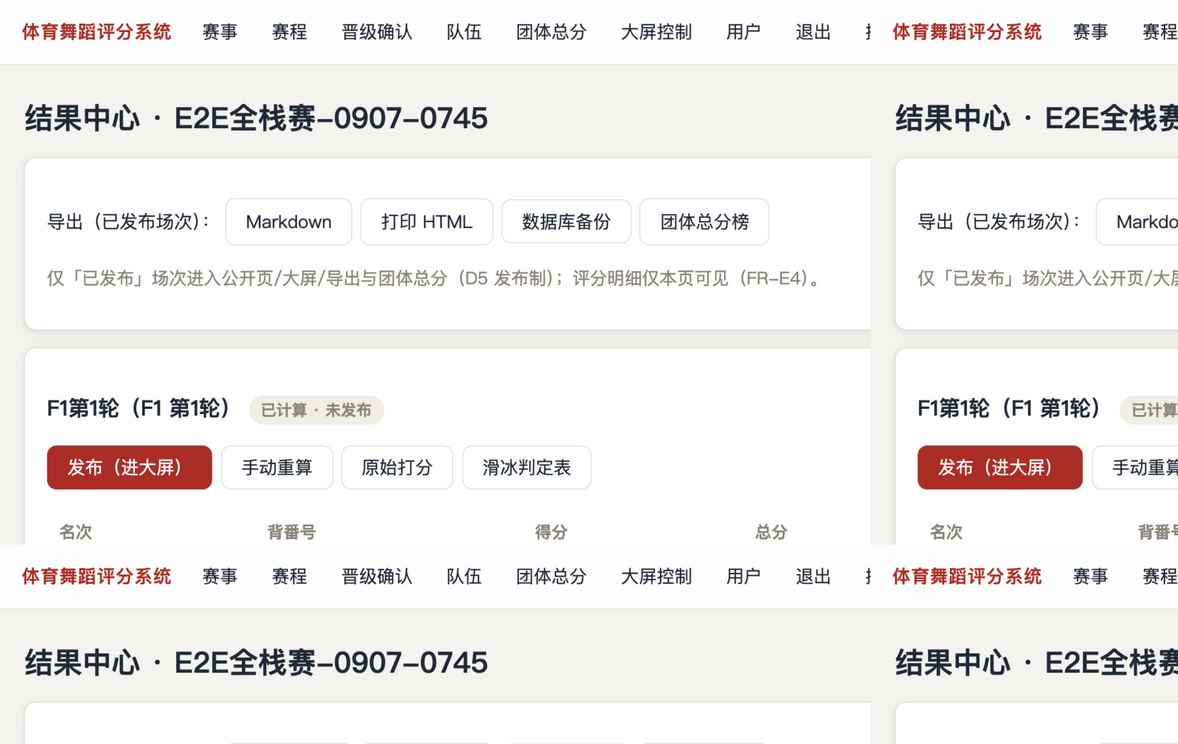
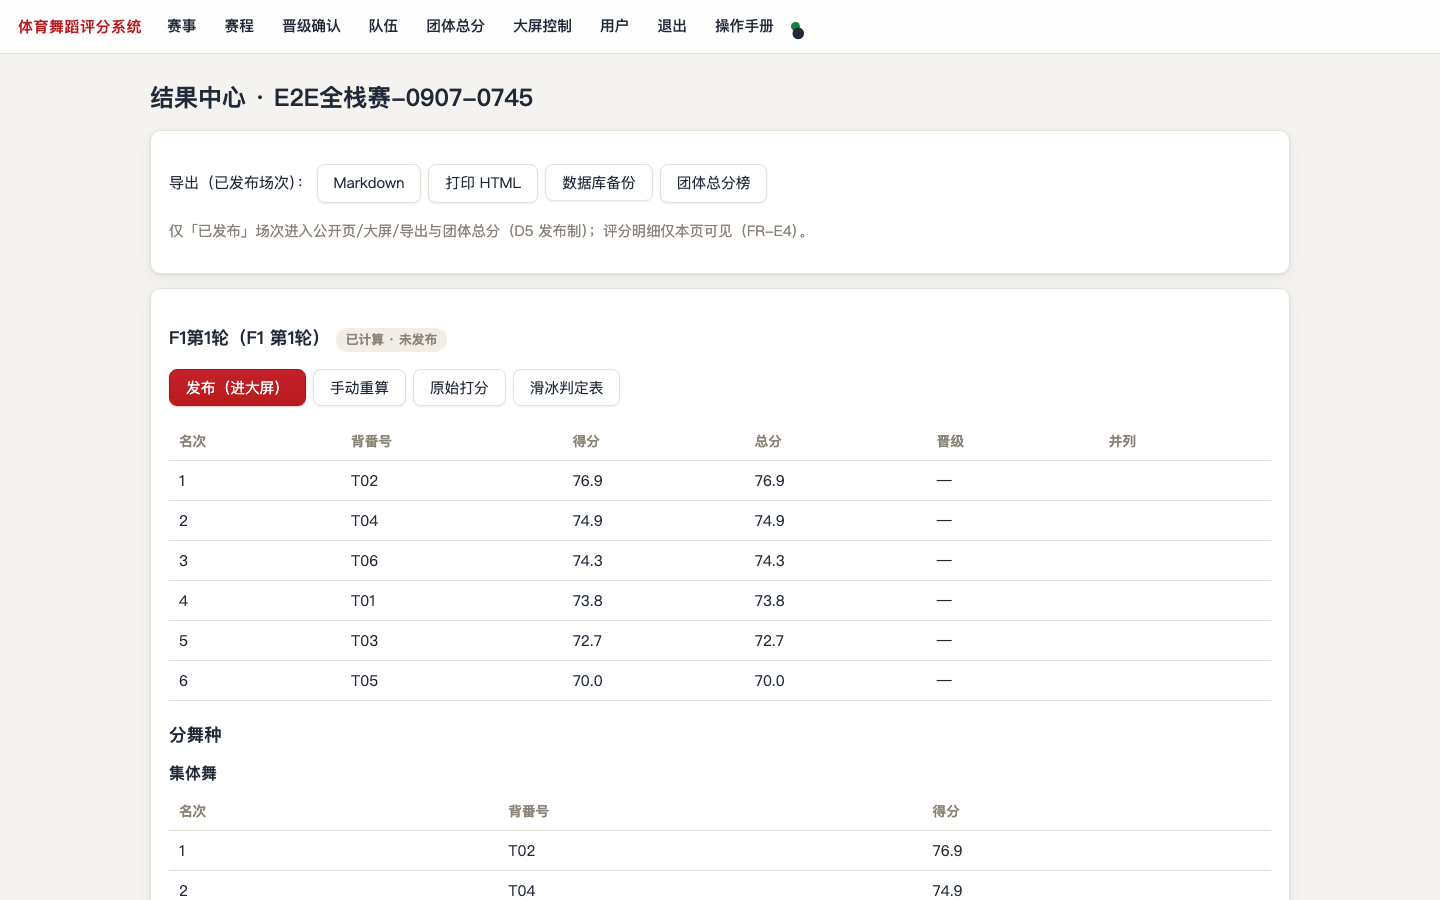
R36-R37合并收尾：分角色账号管理(users表/管理页/登录用户名+口令/检录署名到人)+移动端表格适配(hm列/自适应换行)+R36打磨层(渐变按钮/触屏反馈/密度)+检录台筛选/空态引导+console重构+events列表hm与用户入口+手册v2.2

diff --git a/tools/manual_shots.py b/tools/manual_shots.py
@@ -1,0 +1,156 @@
+#!/usr/bin/env python3
+# -*- coding: utf-8 -*-
+"""动线指南截图批量生成器（Playwright 确定性全页截图）。
+
+用法: python3 tools/manual_shots.py [BASE] [OUTDIR]
+  BASE 默认 http://59.110.90.21:8321；OUTDIR 默认 server/static/manual/r21
+
+视口规格（与 docs/UX-REVIEW-R30.md 一致）：
+  桌面管理员 1440×900 · 裁判/观众移动 375×812 (isMobile) · 大屏 1920×1080
+产出：a1-a12/u-users（桌面）、j1-j5（移动裁判）、p1-p3（移动公众）、s-*（大屏四态）
+"""
+import json
+import sys
+from pathlib import Path
+
+from playwright.sync_api import sync_playwright
+
+BASE = sys.argv[1] if len(sys.argv) > 1 else "http://59.110.90.21:8321"
+OUT = Path(sys.argv[2] if len(sys.argv) > 2 else "server/static/manual/r21")
+OUT.mkdir(parents=True, exist_ok=True)
+ADMIN_PW = "CrmnJG5k9JKCuk9g"       # 线上已轮换的管理员口令（systemd override）
+HOST_PW = "GRumqRvZVDTqGybh"
+MARSHAL_PW = "MspQpW862RmQUGdc"
+COMP = 15
+
+results = []
+
+
+def shot(page, name, full=False):
+    page.screenshot(path=str(OUT / name), full_page=full)
+    results.append(name)
+    print("shot:", name)
+
+
+def settle(page, ms=900):
+    try:
+        page.wait_for_load_state("networkidle", timeout=4000)
+    except Exception:
+        pass
+    page.wait_for_timeout(ms)
+
+
+def api_login(ctx, role, password=None, judge_id=None):
+    body = {"role": role, "password": password}
+    if judge_id:
+        body = {"role": "judge", "judge_id": judge_id}
+    resp = ctx.request.post(BASE + "/api/login", data=json.dumps(body),
+                            headers={"Content-Type": "application/json"})
+    assert resp.ok, f"login {role} 失败: {resp.status}"
+
+
+with sync_playwright() as p:
+    browser = p.chromium.launch()
+
+    # ============ 桌面管理员 1440×900 ============
+    ctx = browser.new_context(viewport={"width": 1440, "height": 900},
+                              locale="zh-CN")
+    page = ctx.new_page()
+    page.goto(BASE + "/login")
+    settle(page)
+    shot(page, "a1-login.png")
+    api_login(ctx, "admin", ADMIN_PW)
+    page.goto(BASE + "/events")
+    settle(page)
+    shot(page, "a2-events.png")
+    page.goto(BASE + "/users")
+    settle(page)
+    shot(page, "u-users.png")
+    page.goto(BASE + f"/events/{COMP}/import")
+    settle(page)
+    shot(page, "a3-import.png")
+    page.goto(BASE + f"/events/{COMP}/schedule")
+    settle(page)
+    shot(page, "a4-schedule-tree.png")
+    sched = ctx.request.get(BASE + f"/api/public/events/{COMP}/schedule").json()
+    ceid_scoring = [e["id"] for e in sched["events"] if e["status"] == "scoring"][0]
+    page.goto(BASE + f"/events/{COMP}/console/{ceid_scoring}")
+    settle(page)
+    shot(page, "a5-console.png")
+    page.goto(BASE + f"/events/{COMP}/advancement")
+    settle(page)
+    shot(page, "a6-advancement.png")
+    page.goto(BASE + f"/events/{COMP}/results")
+    settle(page)
+    shot(page, "a7-results-center.png")
+    page.goto(BASE + f"/events/{COMP}/teams")
+    settle(page)
+    shot(page, "a10-teams.png")
+    page.goto(BASE + f"/events/{COMP}/team-standings")
+    settle(page)
+    shot(page, "a11-team-standings.png")
+    page.goto(BASE + f"/events/{COMP}/screen-control")
+    settle(page)
+    shot(page, "a12-screen-control.png")
+    ctx.close()
+
+    # ============ 裁判移动端 375×812 ============
+    ctx = browser.new_context(viewport={"width": 375, "height": 812},
+                              is_mobile=True, has_touch=True, locale="zh-CN")
+    page = ctx.new_page()
+    api_login(ctx, "judge", judge_id="J1")
+    page.goto(BASE + "/login?role=judge&judge=J1")
+    settle(page)
+    shot(page, "j1-login-prefill.png")
+    page.goto(BASE + "/judge")
+    settle(page)
+    shot(page, "j2-workbench.png")
+    # 顺位法（S11R1：16 人 8/16 检录，含灰行边界）
+    page.goto(BASE + "/judge/competition-events/621/dances/%E5%8D%8E%E5%B0%94%E5%85%B9")
+    settle(page)
+    shot(page, "j3-sheet-skating.png")
+    # Mark 制（M1F）
+    page.goto(BASE + "/judge/competition-events/590/dances/%E7%8E%B0%E4%BB%A3%E8%88%9E")
+    settle(page)
+    shot(page, "j4-mark-selected.png")
+    # 评分制（F2）
+    page.goto(BASE + "/judge/competition-events/594/dances/%E9%9B%86%E4%BD%93%E8%88%9E")
+    settle(page)
+    shot(page, "j5-sheet-score.png")
+    ctx.close()
+
+    # ============ 观众移动端 375×812 ============
+    ctx = browser.new_context(viewport={"width": 375, "height": 812},
+                              is_mobile=True, has_touch=True, locale="zh-CN")
+    page = ctx.new_page()
+    for path, name in (("/public/schedule", "p1-public-schedule.png"),
+                       ("/public/results", "p2-public-results.png"),
+                       ("/public/team-standings", "p3-public-standings.png")):
+        page.goto(BASE + path)
+        settle(page)
+        shot(page, name)
+    ctx.close()
+
+    # ============ 大屏 1920×1080（四态强制） ============
+    ctx = browser.new_context(viewport={"width": 1920, "height": 1080},
+                              locale="zh-CN")
+    page = ctx.new_page()
+    api_login(ctx, "admin", ADMIN_PW)
+    page.goto(BASE + "/login")
+    settle(page)
+    for mode, name in (("results", "s-screen-results.png"),
+                       ("standings", "s-screen-standings.png"),
+                       ("scoring", "s-screen-scoring.png"),
+                       ("welcome", "s-screen-welcome.png")):
+        ctx.request.post(BASE + "/api/screen-control",
+                         data=json.dumps({"mode": mode}),
+                         headers={"Content-Type": "application/json"})
+        page.goto(BASE + "/screen")
+        settle(page, 1600)
+        shot(page, name)
+    ctx.request.post(BASE + "/api/screen-control",
+                     data=json.dumps({"mode": "auto"}),
+                     headers={"Content-Type": "application/json"})
+    ctx.close()
+
+print("\n完成：共 %d 张 → %s" % (len(results), OUT))
